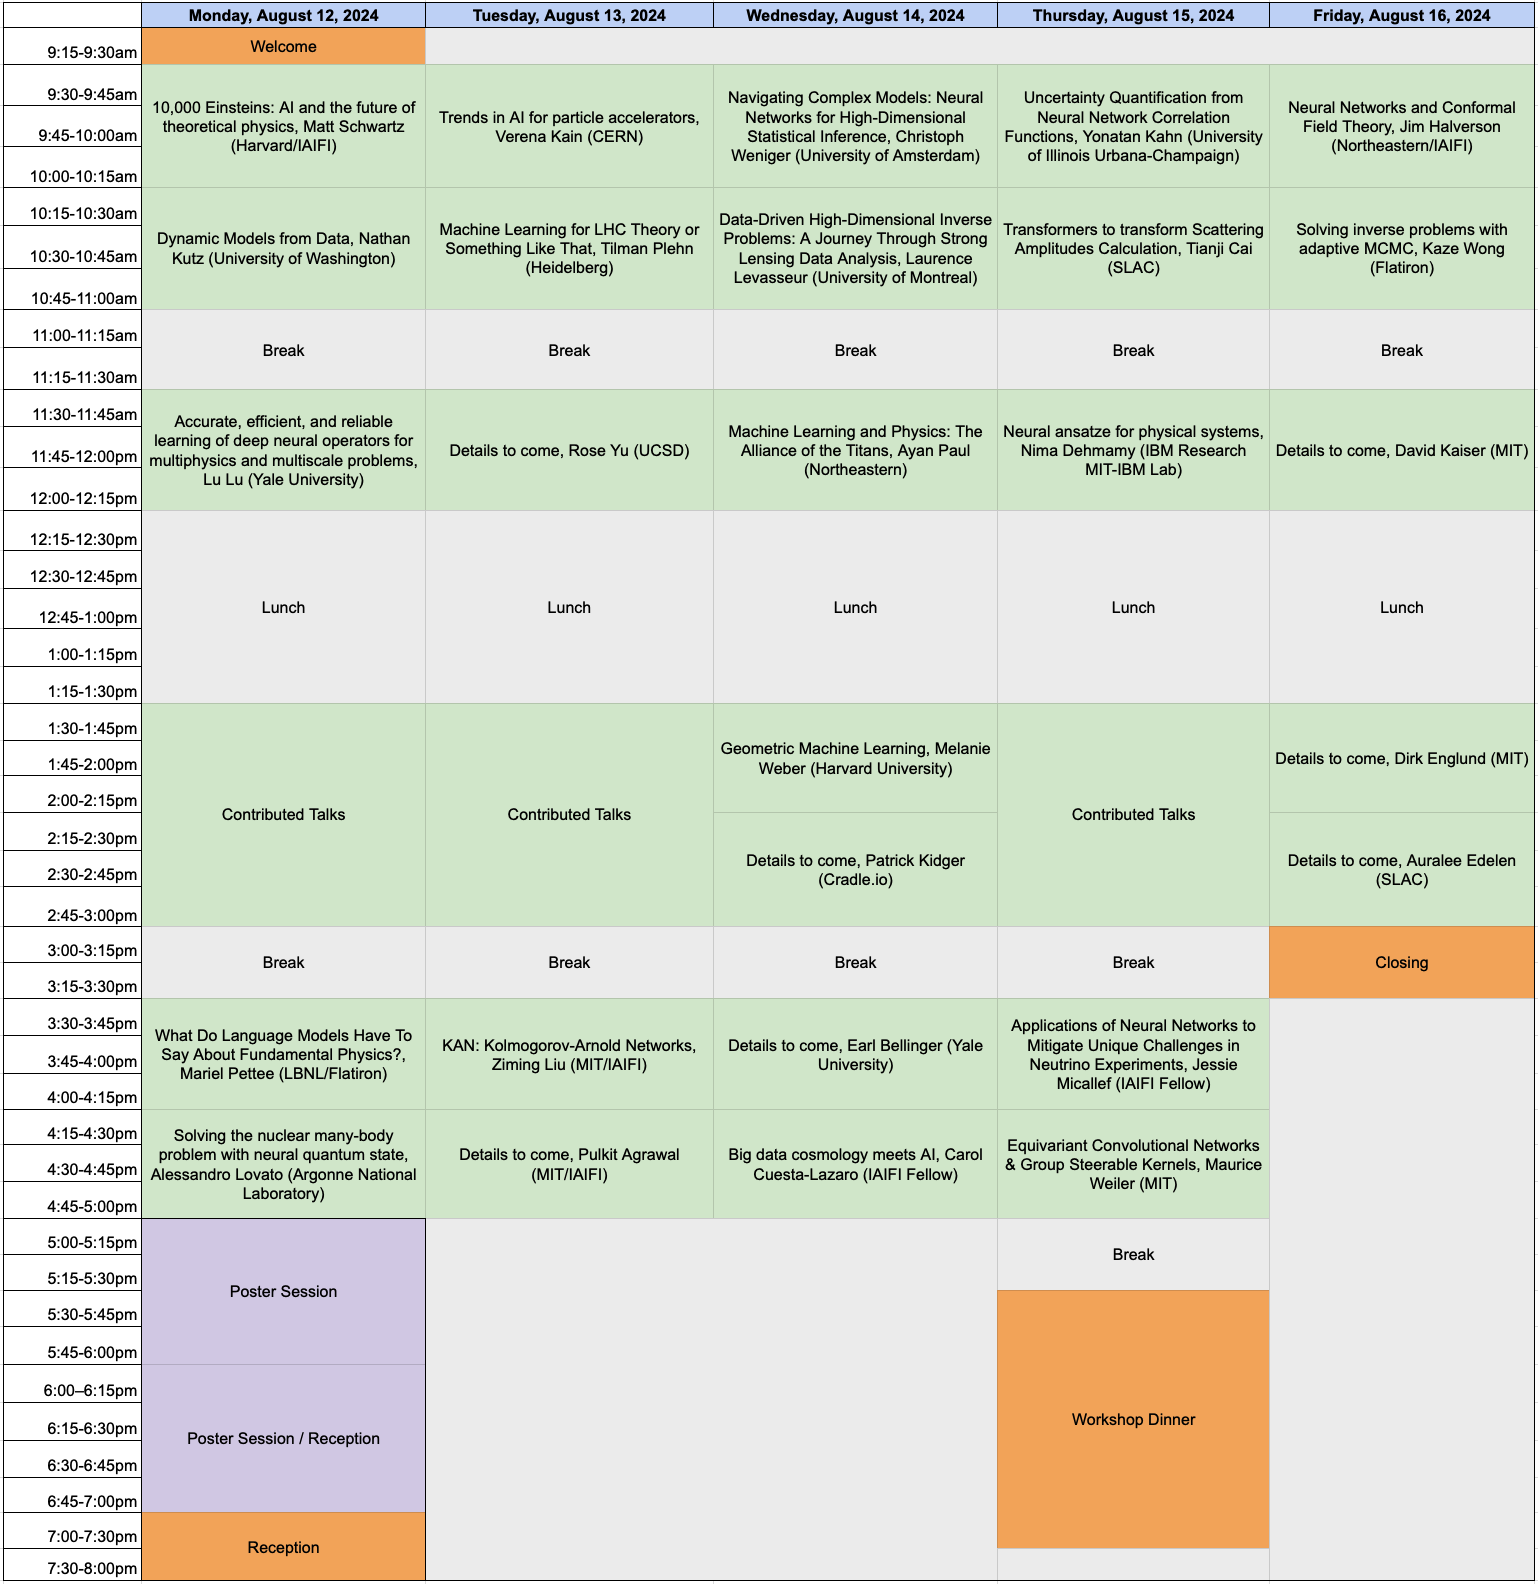
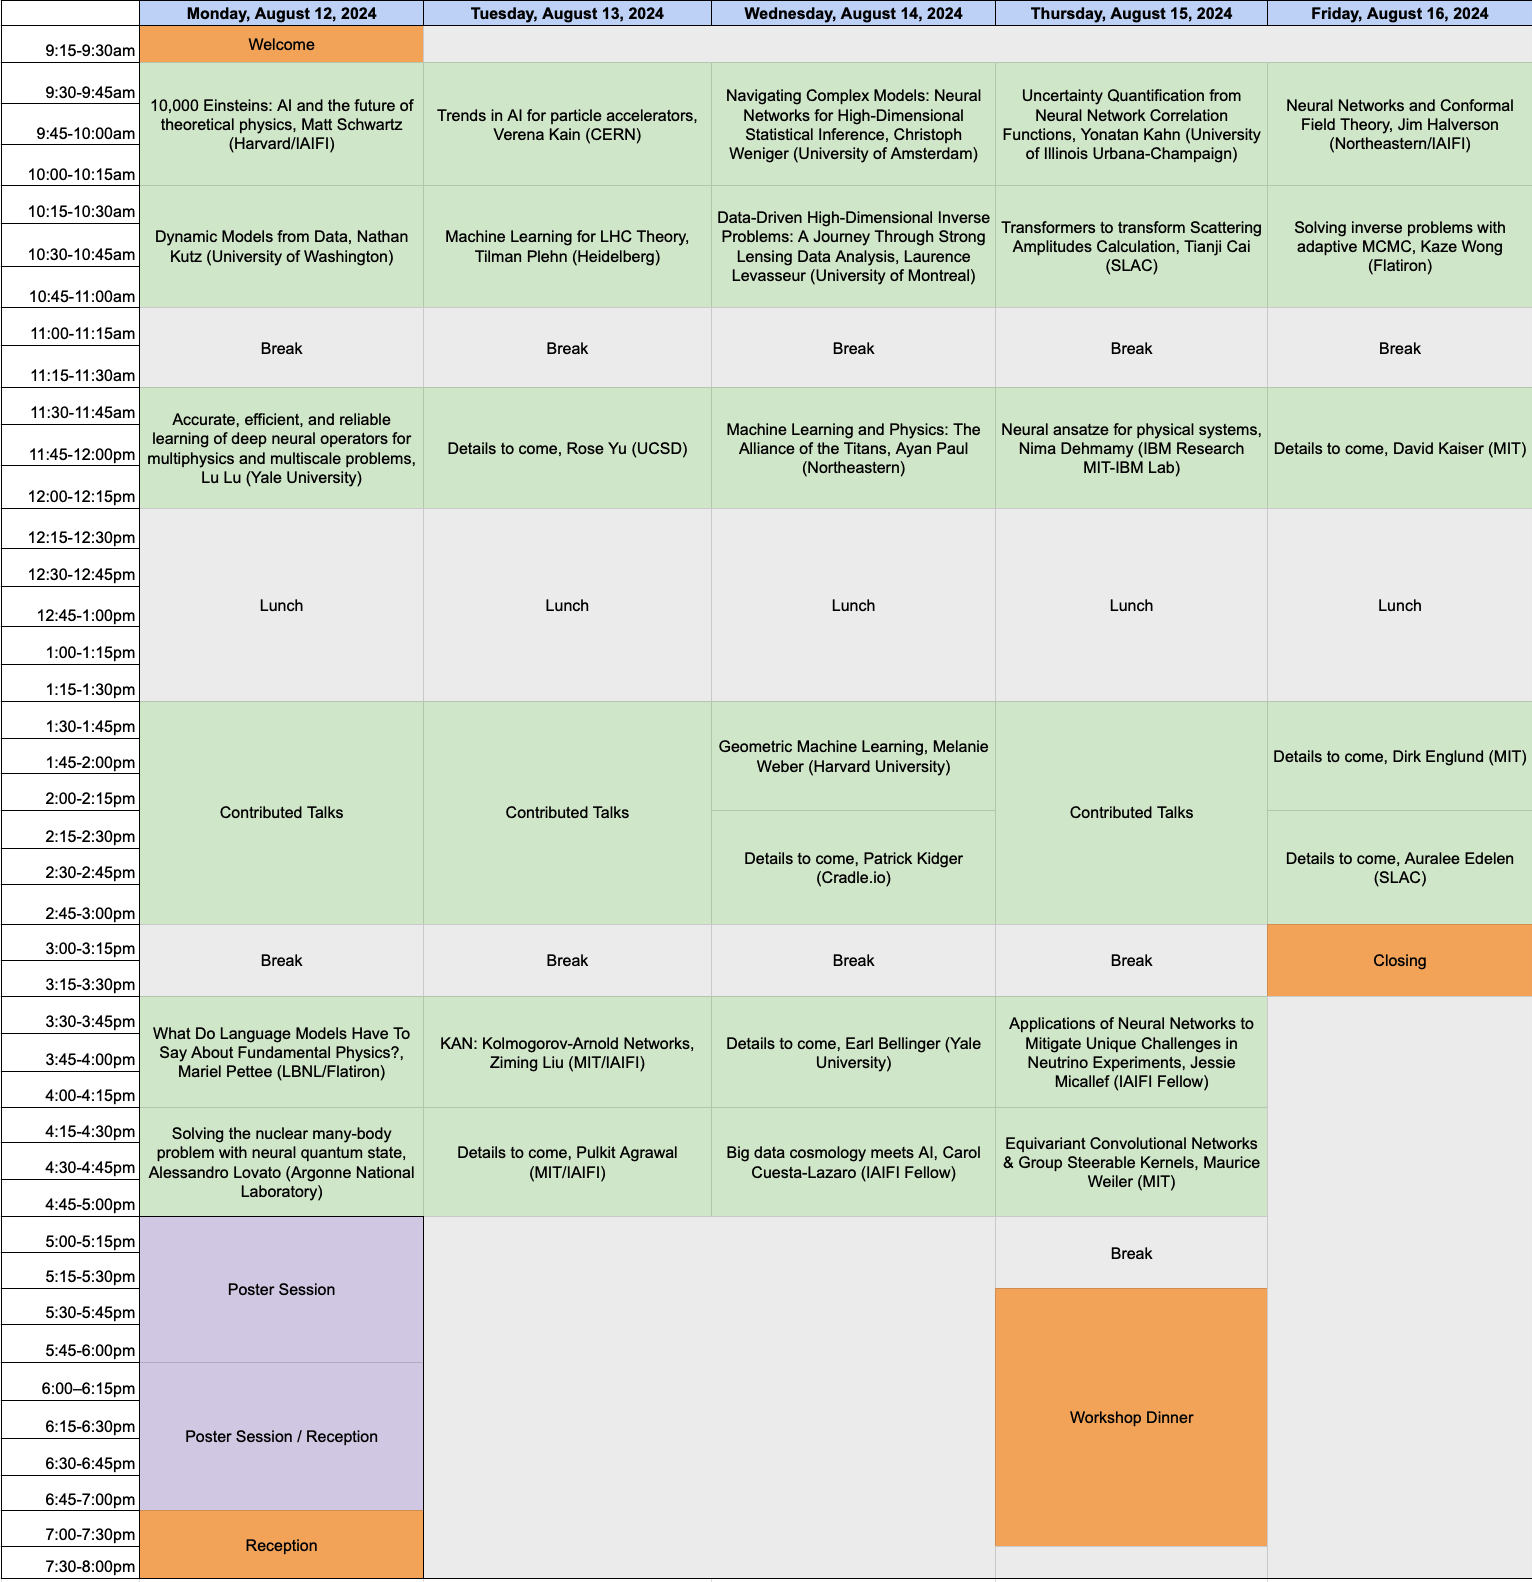
updated SW details

diff --git a/summer-workshop.md b/summer-workshop.md
@@ -249,7 +249,7 @@ Verena Kain, CERN
 
 **10:15–11:00 am ET**
 
-*Machine Learning for LHC Theory or Something Like That*
+*Machine Learning for LHC Theory*
 
 Tilman Plehn, Heidelberg
 
